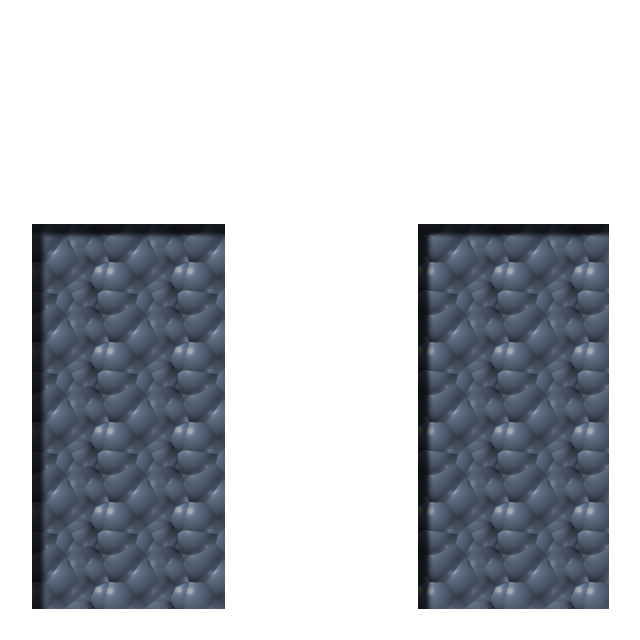
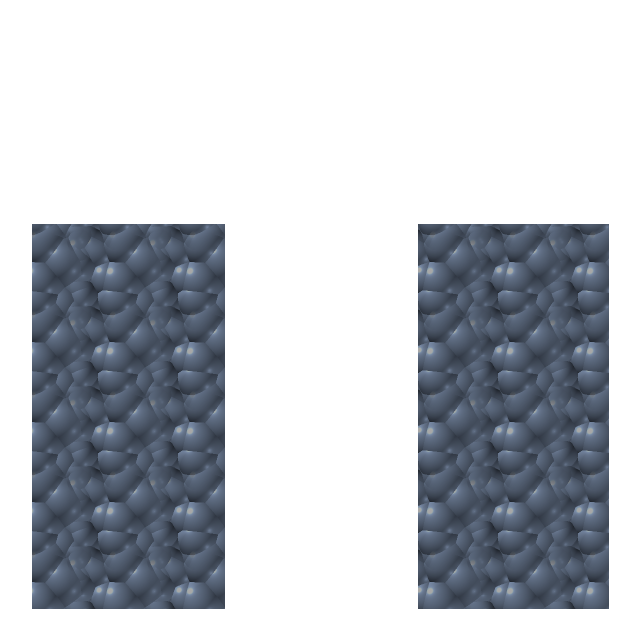
shadow changes

Changed region(s): [[0.0312, 0.3438, 0.375, 0.9688], [0.6562, 0.3438, 0.9688, 0.9688]]

diff --git a/puyo.js b/puyo.js
@@ -54,13 +54,25 @@ Game.update = function ()
 {
 }
 
+var frame = 29;
+
 Game.draw = function ()
 {
+  frame++;
+  if (frame < 30)
+  {
+    Game.context.fillStyle = "black";
+    Game.context.fillRect(0, 0, 640, 32);
+    return;
+  }
+  frame = 0;
+
   // clear to black
-  Game.context.fillStyle = "black";
-  Game.context.fillRect(0, 0, 640, 640);
+//  Game.context.fillStyle = "black";
+//  Game.context.fillRect(0, 0, 640, 640);
 
   Game.context.drawImage(Game.spritebg,0,0);
+  Game.context.globalCompositeOperation = "source-over";
 
   // fill the area with sprite blts and see how fast we can do it
   // sprites are 16x16 - draw 14x14 sprites randomly
